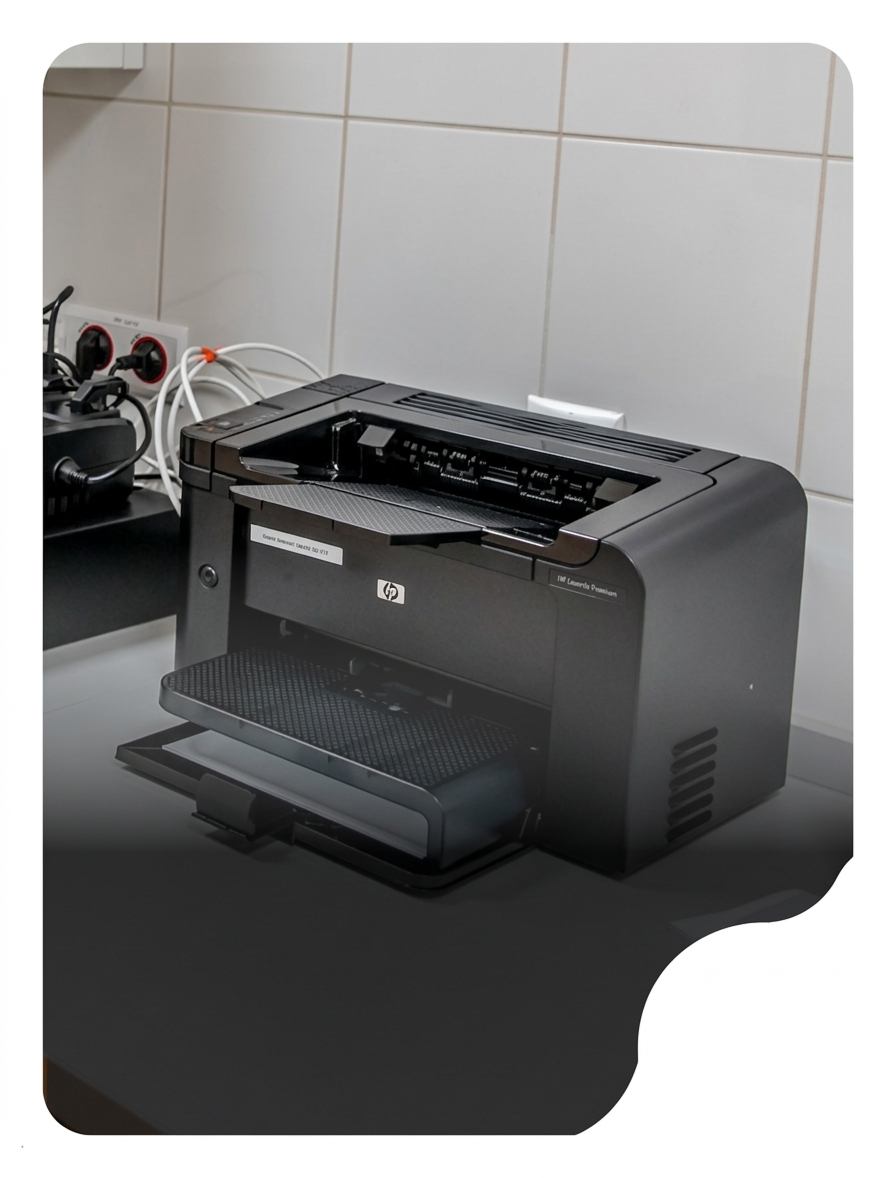
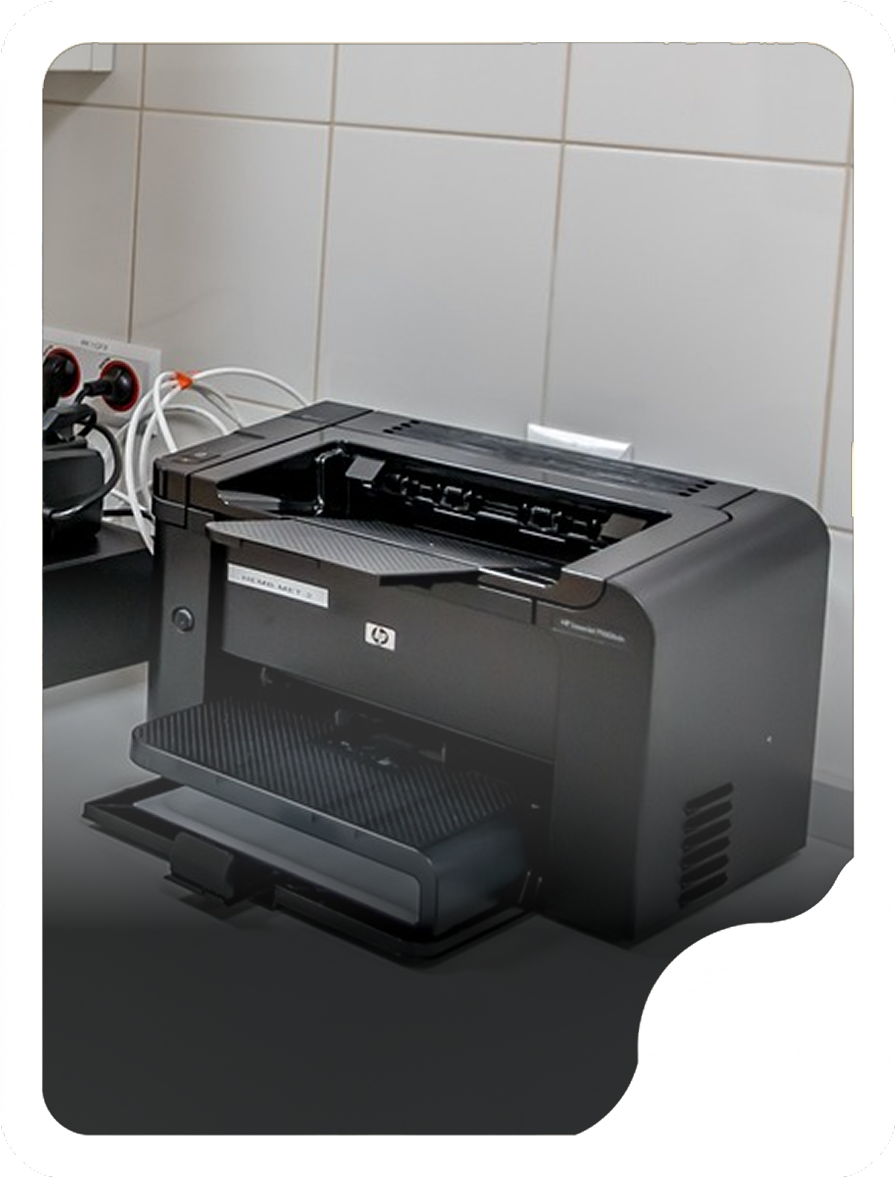
added hover effect on the product tab

diff --git a/index.html b/index.html
@@ -451,7 +451,7 @@
       <div class="products-tabs" role="tablist" aria-label="Products and services categories">
         <button class="products-tab is-active" role="tab" id="productTab0" aria-selected="true" aria-controls="productsPanel" data-title="Software Solutions" data-description="Our software solutions help businesses streamline operations and improve efficiency. From POS to hotel systems, we build tools that simplify processes and support better performance.">
           <span class="products-tab-media">
-            <img src="assets/images/product/software-services.png" alt="Software solutions sample" loading="lazy">
+            <img src="assets/images/product/software-services.png" data-active-src="assets/images/product/software-services.png" data-inactive-src="assets/images/product/software-inactive.png" alt="Software solutions sample" loading="lazy">
           </span>
           <span class="products-tab-label">Software Solutions</span>
           <span class="products-tab-arrow" aria-hidden="true"><i class="bi bi-arrow-up-right"></i></span>
@@ -459,7 +459,7 @@
 
         <button class="products-tab" role="tab" id="productTab1" aria-selected="false" aria-controls="productsPanel" data-title="Hardware Solutions" data-description="With our deep expertise in IT hardware solutions, we ensure your company receives the most cost-effective, high quality, and efficient products">
           <span class="products-tab-media">
-            <img src="assets/images/product/hardware-services.png" alt="Hardware solutions sample" loading="lazy">
+            <img src="assets/images/product/hardware-inactive.png" data-active-src="assets/images/product/hardware-services.png" data-inactive-src="assets/images/product/hardware-inactive.png" alt="Hardware solutions sample" loading="lazy">
           </span>
           <span class="products-tab-label">Hardware Solutions</span>
           <span class="products-tab-arrow" aria-hidden="true"><i class="bi bi-arrow-up-right"></i></span>
@@ -467,7 +467,7 @@
 
         <button class="products-tab" role="tab" id="productTab2" aria-selected="false" aria-controls="productsPanel" data-title="Medical Laboratory Equipments" data-description="State-of-the-art equipment for healthcare and research facilities">
           <span class="products-tab-media">
-            <img src="assets/images/product/medical-services.png" alt="Medical laboratory equipment sample" loading="lazy">
+            <img src="assets/images/product/medical-inactive.png" data-active-src="assets/images/product/medical-services.png" data-inactive-src="assets/images/product/medical-inactive.png" alt="Medical laboratory equipment sample" loading="lazy">
           </span>
           <span class="products-tab-label">Medical/ Laboratory Equipments</span>
           <span class="products-tab-arrow" aria-hidden="true"><i class="bi bi-arrow-up-right"></i></span>
@@ -475,7 +475,7 @@
 
         <button class="products-tab" role="tab" id="productTab3" aria-selected="false" aria-controls="productsPanel" data-title="Technical Service Solutions" data-description="Comprehensive technical services for your business needs">
           <span class="products-tab-media">
-            <img src="assets/images/product/technical-services.png" alt="Technical service solutions sample" loading="lazy">
+            <img src="assets/images/product/technical-inactive.png" data-active-src="assets/images/product/technical-services.png" data-inactive-src="assets/images/product/technical-inactive.png" alt="Technical service solutions sample" loading="lazy">
           </span>
           <span class="products-tab-label">Technical Service Solutions</span>
           <span class="products-tab-arrow" aria-hidden="true"><i class="bi bi-arrow-up-right"></i></span>
@@ -483,7 +483,7 @@
 
         <button class="products-tab" role="tab" id="productTab4" aria-selected="false" aria-controls="productsPanel" data-title="Digital Communication System Integration" data-description="Easy-to-use, high-quality conferencing solutions for any room size and various platforms">
           <span class="products-tab-media">
-            <img src="assets/images/product/digital-services.png" alt="Digital communication integration sample" loading="lazy">
+            <img src="assets/images/product/digital-inactive.png" data-active-src="assets/images/product/digital-services.png" data-inactive-src="assets/images/product/digital-inactive.png" alt="Digital communication integration sample" loading="lazy">
           </span>
           <span class="products-tab-label products-tab-label--digital">Digital Communication System Integration</span>
           <span class="products-tab-arrow" aria-hidden="true"><i class="bi bi-arrow-up-right"></i></span>

diff --git a/assets/js/main.js b/assets/js/main.js
@@ -174,6 +174,12 @@ updateHeader();
       const active = i === index;
       tab.classList.toggle('is-active', active);
       tab.setAttribute('aria-selected', String(active));
+      const tabImage = tab.querySelector('.products-tab-media img');
+      if (tabImage) {
+        tabImage.src = active
+          ? (tabImage.dataset.activeSrc || tabImage.src)
+          : (tabImage.dataset.inactiveSrc || tabImage.src);
+      }
     });
 
     const tab = tabs[index];
@@ -206,6 +212,19 @@ updateHeader();
       const next = (index + dir + tabs.length) % tabs.length;
       tabs[next].focus();
       activate(next, { scroll: true });
+    });
+    tab.addEventListener('mouseenter', () => {
+      const tabImage = tab.querySelector('.products-tab-media img');
+      if (!tabImage) return;
+      tabImage.src = tabImage.dataset.activeSrc || tabImage.src;
+    });
+    tab.addEventListener('mouseleave', () => {
+      const tabImage = tab.querySelector('.products-tab-media img');
+      if (!tabImage) return;
+      const isActive = tab.classList.contains('is-active');
+      tabImage.src = isActive
+        ? (tabImage.dataset.activeSrc || tabImage.src)
+        : (tabImage.dataset.inactiveSrc || tabImage.src);
     });
   });
 
